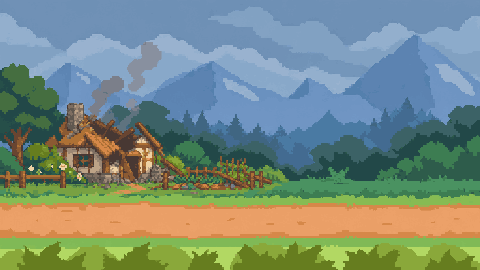
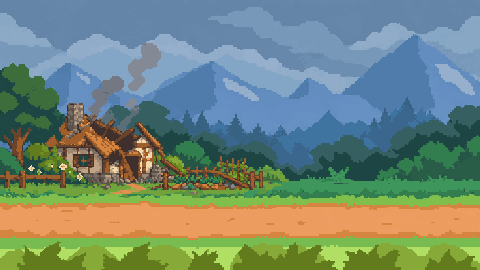
feat: 스토리·타이틀 배경 6장과 로고를 픽셀 격자로 재생성
AI 원본의 가짜 픽셀이 약 6.5px(로고는 12~19px)로 제각각이라 480x270에
맞춰도 블록이 1~2텍셀로 고르지 않았다. Codex image_gen 으로 다시 그리고
pixelate.py 로 변환했다.

습격·폐허·추모 3장은 새 평상시 배경을 편집 대상으로 넘겨 집과 산 위치를
맞췄다. 습격 장면은 기본 팔레트가 불덩이 중심 색을 연두색으로 합쳐서,
목표 격자로 축소한 이미지에서 팔레트를 뽑아 적용했다. NewCardTitle 은
재생성 결과가 지금보다 거칠어 그대로 두었다.

diff --git a/background-generation.md b/background-generation.md
@@ -60,3 +60,24 @@ Attached: (1) the original dialogue portrait of this character (composition, des
 - Villager: Dialogue portrait of a young village woman with wavy auburn hair tied back, brown eyes, brown shawl over a cream blouse and green laced bodice, one hand raised to her chest, bust shot.
 - SlimeKing: Dialogue portrait of the Slime King boss: a large dark crimson glossy slime with two curved horns, a small gold crown with red gems, a smug grin and a devil tail on the right, front view.
 - UndeadSlimeKing: Dialogue portrait of the Undead Slime King boss: a pale grey-green cracked slime with glowing green cracks and eyes, an angry snarl, two black horns, a dark tarnished crown and a devil tail on the right, front view.
+
+### 스토리·타이틀 배경 재생성(2026-10-14)
+
+아트 1픽셀 = 화면 4px 격자에 맞추려고 Codex image_gen으로 다시 그렸다. 참고 이미지로 AI 원본(b7c2ed0)과 현재 480x270 PNG의 4배 확대본을 첨부. 생성 원본 1672x941을 `pixelate.py --target 480x270 --despeckle`로 변환.
+
+- MountainHome: Redraw the attached reference image as true pixel art for the game WordVenture. Attached: (1) the original AI image, (2) the current in-game 480x270 version enlarged 4x. Peaceful remote mountain valley home: one modest timber and stone cottage with a warm ochre thatched roof and chimney on the left, small vegetable garden and wooden fence, forest and layered blue mountains behind, wide sandy path across the foreground, grass strip at the bottom, clear blue sky. Keep the same composition, layout, landmarks and colours as the reference. Draw it on an exact 480x270 pixel grid: every art pixel is one equal square cell, then enlarge with nearest-neighbour by an integer factor (output 1920x1080 if possible, otherwise 16:9). Hard edges, no anti-aliasing, no gradients, no dithering noise, no blur, flat colour clusters, limited palette of about 48 colours. Keep the bottom quarter calm for the dialogue overlay. No text, UI or logos. Match the palette and density of the other attached game art.
+
+- WorldTreeEpilogue: Redraw the attached reference image as true pixel art for the game WordVenture. Attached: (1) the original AI image, (2) the current in-game 480x270 version enlarged 4x. A single majestic world tree with a broad emerald canopy and warm brown trunk with spreading roots in a calm forest clearing, sparse pale cyan magical flowers among the roots, distant blue mountains, pale blue sky, sandy path and bushes in the foreground. Keep the same composition, layout, landmarks and colours as the reference. Draw it on an exact 480x270 pixel grid: every art pixel is one equal square cell, then enlarge with nearest-neighbour by an integer factor (output 1920x1080 if possible, otherwise 16:9). Hard edges, no anti-aliasing, no gradients, no dithering noise, no blur, flat colour clusters, limited palette of about 48 colours. Keep the bottom quarter calm for the dialogue overlay. No text, UI or logos. Match the palette and density of the other attached game art.
+
+- MountainValley: Redraw the attached reference image as true pixel art for the game WordVenture. Attached: (1) the original AI image, (2) the current in-game 480x270 version enlarged 4x. Title screen backdrop: mountain valley with a winding ochre trail leading toward distant layered blue mountains, framing trees at far left and right, low bushes and small rocks. Keep the central 60 percent open and uncluttered for the title and menu overlay, airy blue sky upper half. Keep the same composition, layout, landmarks and colours as the reference. Draw it on an exact 480x270 pixel grid: every art pixel is one equal square cell, then enlarge with nearest-neighbour by an integer factor (output 1920x1080 if possible, otherwise 16:9). Hard edges, no anti-aliasing, no gradients, no dithering noise, no blur, flat colour clusters, limited palette of about 48 colours. Keep the bottom quarter calm for the dialogue overlay. No text, UI or logos. Match the palette and density of the other attached game art.
+
+- MountainHomeAttack(새 MountainHome 원본을 편집 대상으로 첨부): Attached: (1) EDIT TARGET, the newly redrawn peaceful cottage background: keep its exact cottage, mountains, trees, path, camera and pixel grid, (2) the old version of this scene showing the content to depict, (3) the current in-game version of this scene enlarged 4x. Edit image 1 into the ACTIVE ATTACK moment: several bright orange-red fireballs with yellow cores and angular pixel flame tails fly diagonally from upper right toward the cottage at the lower left; one strikes the roof edge with pixel sparks and small flames spreading across the thatch; dark smoke above the house; dramatic smoky blue-gray sky. Roof still mostly standing. No people, monsters, text or UI. Keep the bottom quarter calm for dialogue. Draw it on an exact 480x270 pixel grid: every art pixel is one equal square cell, then enlarge with nearest-neighbour by an integer factor. Hard edges, no anti-aliasing, no gradients, no dithering noise, no blur, flat colour clusters, limited palette of about 48 colours. No text, UI or logos. Match the palette and density of the other attached game art.
+
+- MountainHomeRuins(새 MountainHome 원본을 편집 대상으로 첨부): Attached: (1) EDIT TARGET, the newly redrawn peaceful cottage background: keep its exact cottage, mountains, trees, path, camera and pixel grid, (2) the old version of this scene showing the content to depict, (3) the current in-game version of this scene enlarged 4x. Edit image 1 into the aftermath: cottage roof collapsed inward with broken timber and stone rubble, damaged garden and fence, faint gray smoke rising, subdued blue-gray cloudy sky and slightly muted grass. The house must visibly be ruined. No people, bodies, monsters, text or UI. Keep the bottom quarter calm for dialogue. Draw it on an exact 480x270 pixel grid: every art pixel is one equal square cell, then enlarge with nearest-neighbour by an integer factor. Hard edges, no anti-aliasing, no gradients, no dithering noise, no blur, flat colour clusters, limited palette of about 48 colours. No text, UI or logos. Match the palette and density of the other attached game art.
+
+- MountainHomeMemorial(새 MountainHome 원본을 편집 대상으로 첨부): Attached: (1) EDIT TARGET, the newly redrawn peaceful cottage background: keep its exact cottage, mountains, trees, path, camera and pixel grid, (2) the old version of this scene showing the content to depict, (3) the current in-game version of this scene enlarged 4x. Edit image 1 into the bittersweet ending, long after the attack: the same cottage still damaged (collapsed roof, broken fence), grass growing around the rubble, no smoke or fire, a peaceful late-afternoon sky with warm golden light and soft clouds at the horizon, one small plain unlettered gray memorial stone to the right of the cottage with a few white wildflowers at its base. No people, text or UI. Keep the bottom quarter calm for dialogue. Draw it on an exact 480x270 pixel grid: every art pixel is one equal square cell, then enlarge with nearest-neighbour by an integer factor. Hard edges, no anti-aliasing, no gradients, no dithering noise, no blur, flat colour clusters, limited palette of about 48 colours. No text, UI or logos. Match the palette and density of the other attached game art.
+
+### WordVentureLogo 재생성(2026-10-14)
+
+Attached: (1) the original logo image, (2) the current in-game 275x91 version enlarged 4x. Redraw the attached reference logo as true pixel art for the game WordVenture. Game title logo reading exactly "WORD" on the top line and "VENTURE" on the bottom line, in chunky wooden-plank letters with tan wood grain, thick dark brown outline, a small open book before "WORD" and small green leaves on the top left and right. Keep the same composition, letter shapes, spelling and colours as the reference. Draw it on an exact 275x91 pixel grid: every art pixel is one equal square cell, then enlarge with nearest-neighbour by an integer factor. Because the grid is small, draw the lettering as crisp pixel-font letters with clean straight strokes, every letter fully legible. Hard edges, no anti-aliasing, no gradients, no dithering noise, no blur, flat colour clusters, limited palette of about 24 colours, clean 1-pixel dark outline. Transparent background. No other text or UI apart from the logo's own lettering.
+

diff --git a/.agents/skills/pixel-art/regen-candidates.md b/.agents/skills/pixel-art/regen-candidates.md
@@ -18,9 +18,7 @@ python3 .agents/skills/pixel-art/scripts/pixelate.py <codex 출력>.png <대상>
 
 | 에셋 | 대상 | 옵션 | 현재 상태 |
 |---|---|---|---|
-| `Assets/Art/Story/MountainHome.png`, `MountainHomeAttack.png`, `MountainHomeRuins.png`, `MountainHomeMemorial.png`, `WorldTreeEpilogue.png`, `Assets/Art/Title/MountainValley.png` | 480x270 | `--despeckle` | AI 원본 격자가 약 6.5px라 블록이 1~2텍셀로 고르지 않음. 같은 집이 나오는 4장은 구도와 집 모양을 서로 맞출 것 |
-| `Assets/Art/Title/WordVentureLogo.png` | 275x91 | 투명 배경 | 원본 가짜 픽셀이 12~19px로 제각각 |
-| `Assets/Art/UI/NewCardTitle.png` | 267x45 | 투명 배경 | 기존 6.5px 블록을 늘림 |
+| `Assets/Art/UI/NewCardTitle.png` | 267x45 | 투명 배경 | 기존 6.5px 블록을 늘림. 2026-10-14에 재생성했지만 Codex가 약 14.6px 칸으로 그려 260칸으로 줄이면 1.95배라 가장자리가 깨졌다. 지금 PNG가 더 깨끗해서 유지함 |
 | `Assets/Art/Battle/Backgrounds/PlainBackground.png` | 1024x512 | | 256x128 원본을 4배로 붙여 둠, 실제 블록 16px |
 | `Assets/Art/Tutorial/PlainBackground.png`, `Assets/ThirdParty/ArtResource/JinWook/Desert/HIghland.png`, `.../Ocean/SeaBackground.png`, `.../WorldMap/KakaoTalk_20240701_202830558.png` (스테이지 배경 4종) | 512x256 | | 256x128 원본을 2배로 붙여 둠, 실제 블록 8px |
 | `Assets/ThirdParty/ArtResource/JinWook/GameOverBackground/*.png` (3장, 애니메이션 프레임) | 512x256 | | 실제 블록 8px. 세 장의 차이를 유지할 것 |
@@ -38,3 +36,5 @@ python3 .agents/skills/pixel-art/scripts/pixelate.py <codex 출력>.png <대상>
 - 워드 전투 스프라이트 7프레임(`Assets/Art/Combat/Word/`): `--keep-lines 2`로 다시 변환해 외곽선이 닫힘
 - 워드 대화 초상화(`Assets/Art/Story/Portraits/WordDialogue.png`): Codex image_gen으로 재생성해 `--target 170x170 --keep-lines 2`로 변환. 나머지 초상화 7장의 머리 크기와 프레이밍 기준
 - 대화 초상화 7장(Fisherman, Guard, Guide, Shepherd, Villager, SlimeKing, UndeadSlimeKing): 새 WordDialogue.png를 프레이밍 기준으로 함께 첨부해 재생성하고 `--target 170x170 --keep-lines 2`로 변환
+- 스토리·타이틀 배경 6장(`MountainHome*.png` 4장, `WorldTreeEpilogue.png`, `MountainValley.png`): 재생성해 `--target 480x270 --despeckle`로 변환. 습격·폐허·추모 3장은 새 MountainHome을 편집 대상으로 넘겨 집과 산 위치를 맞춤. `MountainHomeAttack.png`는 기본 팔레트가 불덩이 중심의 크림색을 연두색으로 합쳐서, 생성 원본을 480x270으로 BOX 축소한 이미지에서 64색 팔레트를 뽑아 원본에 먼저 적용한 뒤 변환
+- 타이틀 로고(`WordVentureLogo.png`): 재생성 원본을 내용 영역으로 자른 뒤 기존 로고의 내용 영역(215x58, 위치 31,18)에 맞춰 변환
